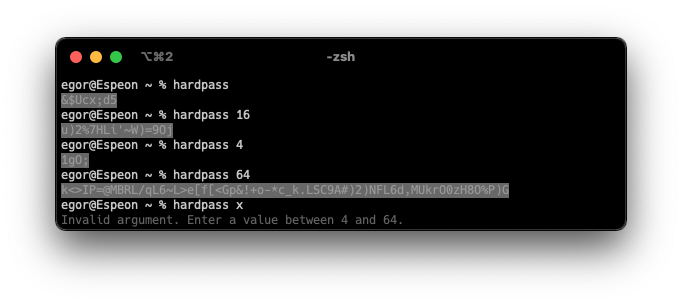
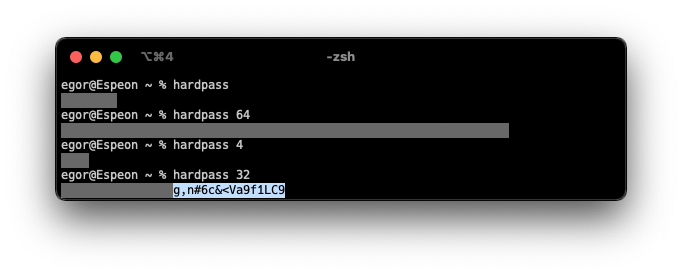
++

Changed region(s): [[0.0616, 0.2628, 0.9238, 0.7883], [0.0616, 0.1168, 0.9238, 0.2336], [0.4619, 0.1752, 0.5235, 0.2336]]

diff --git a/hardpass_rephrase/README.md b/hardpass_rephrase/README.md
@@ -1,6 +1,6 @@
 # Hardpass/Rephrase
 
-Strong random password and passphrase generators created with [Ruby](https://www.ruby-lang.org/en/).
+Strong random password and passphrase generators created with [Ruby](https://www.ruby-lang.org/en/). Generated keys are displayed with a visibility mask for added security.
 
 ## Hardpass
 
